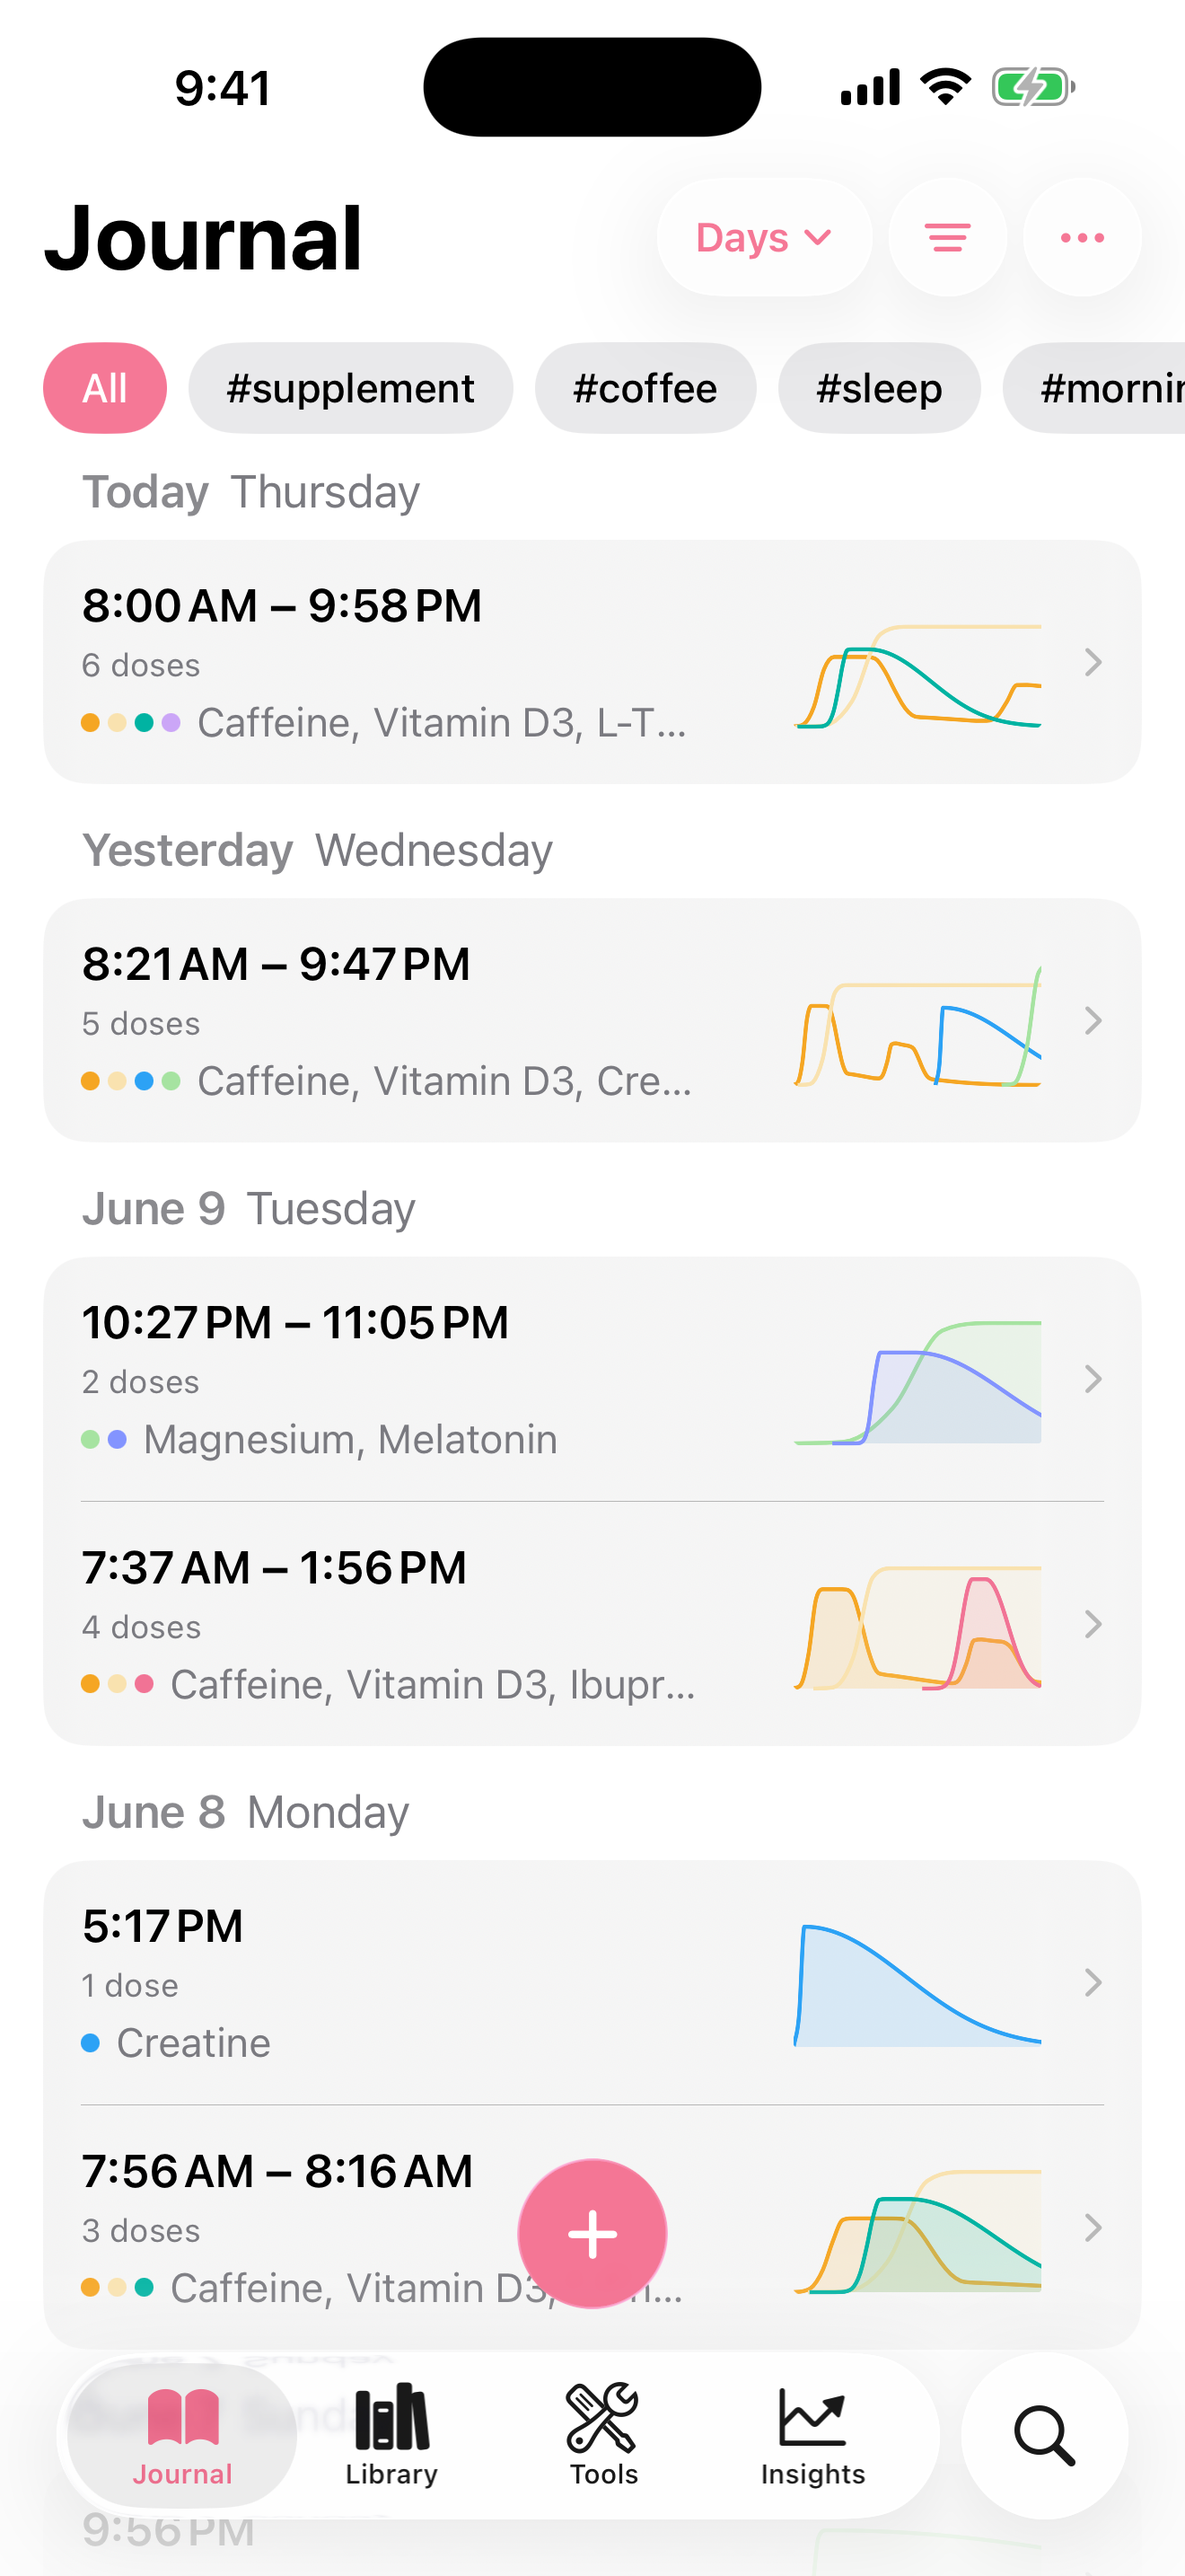
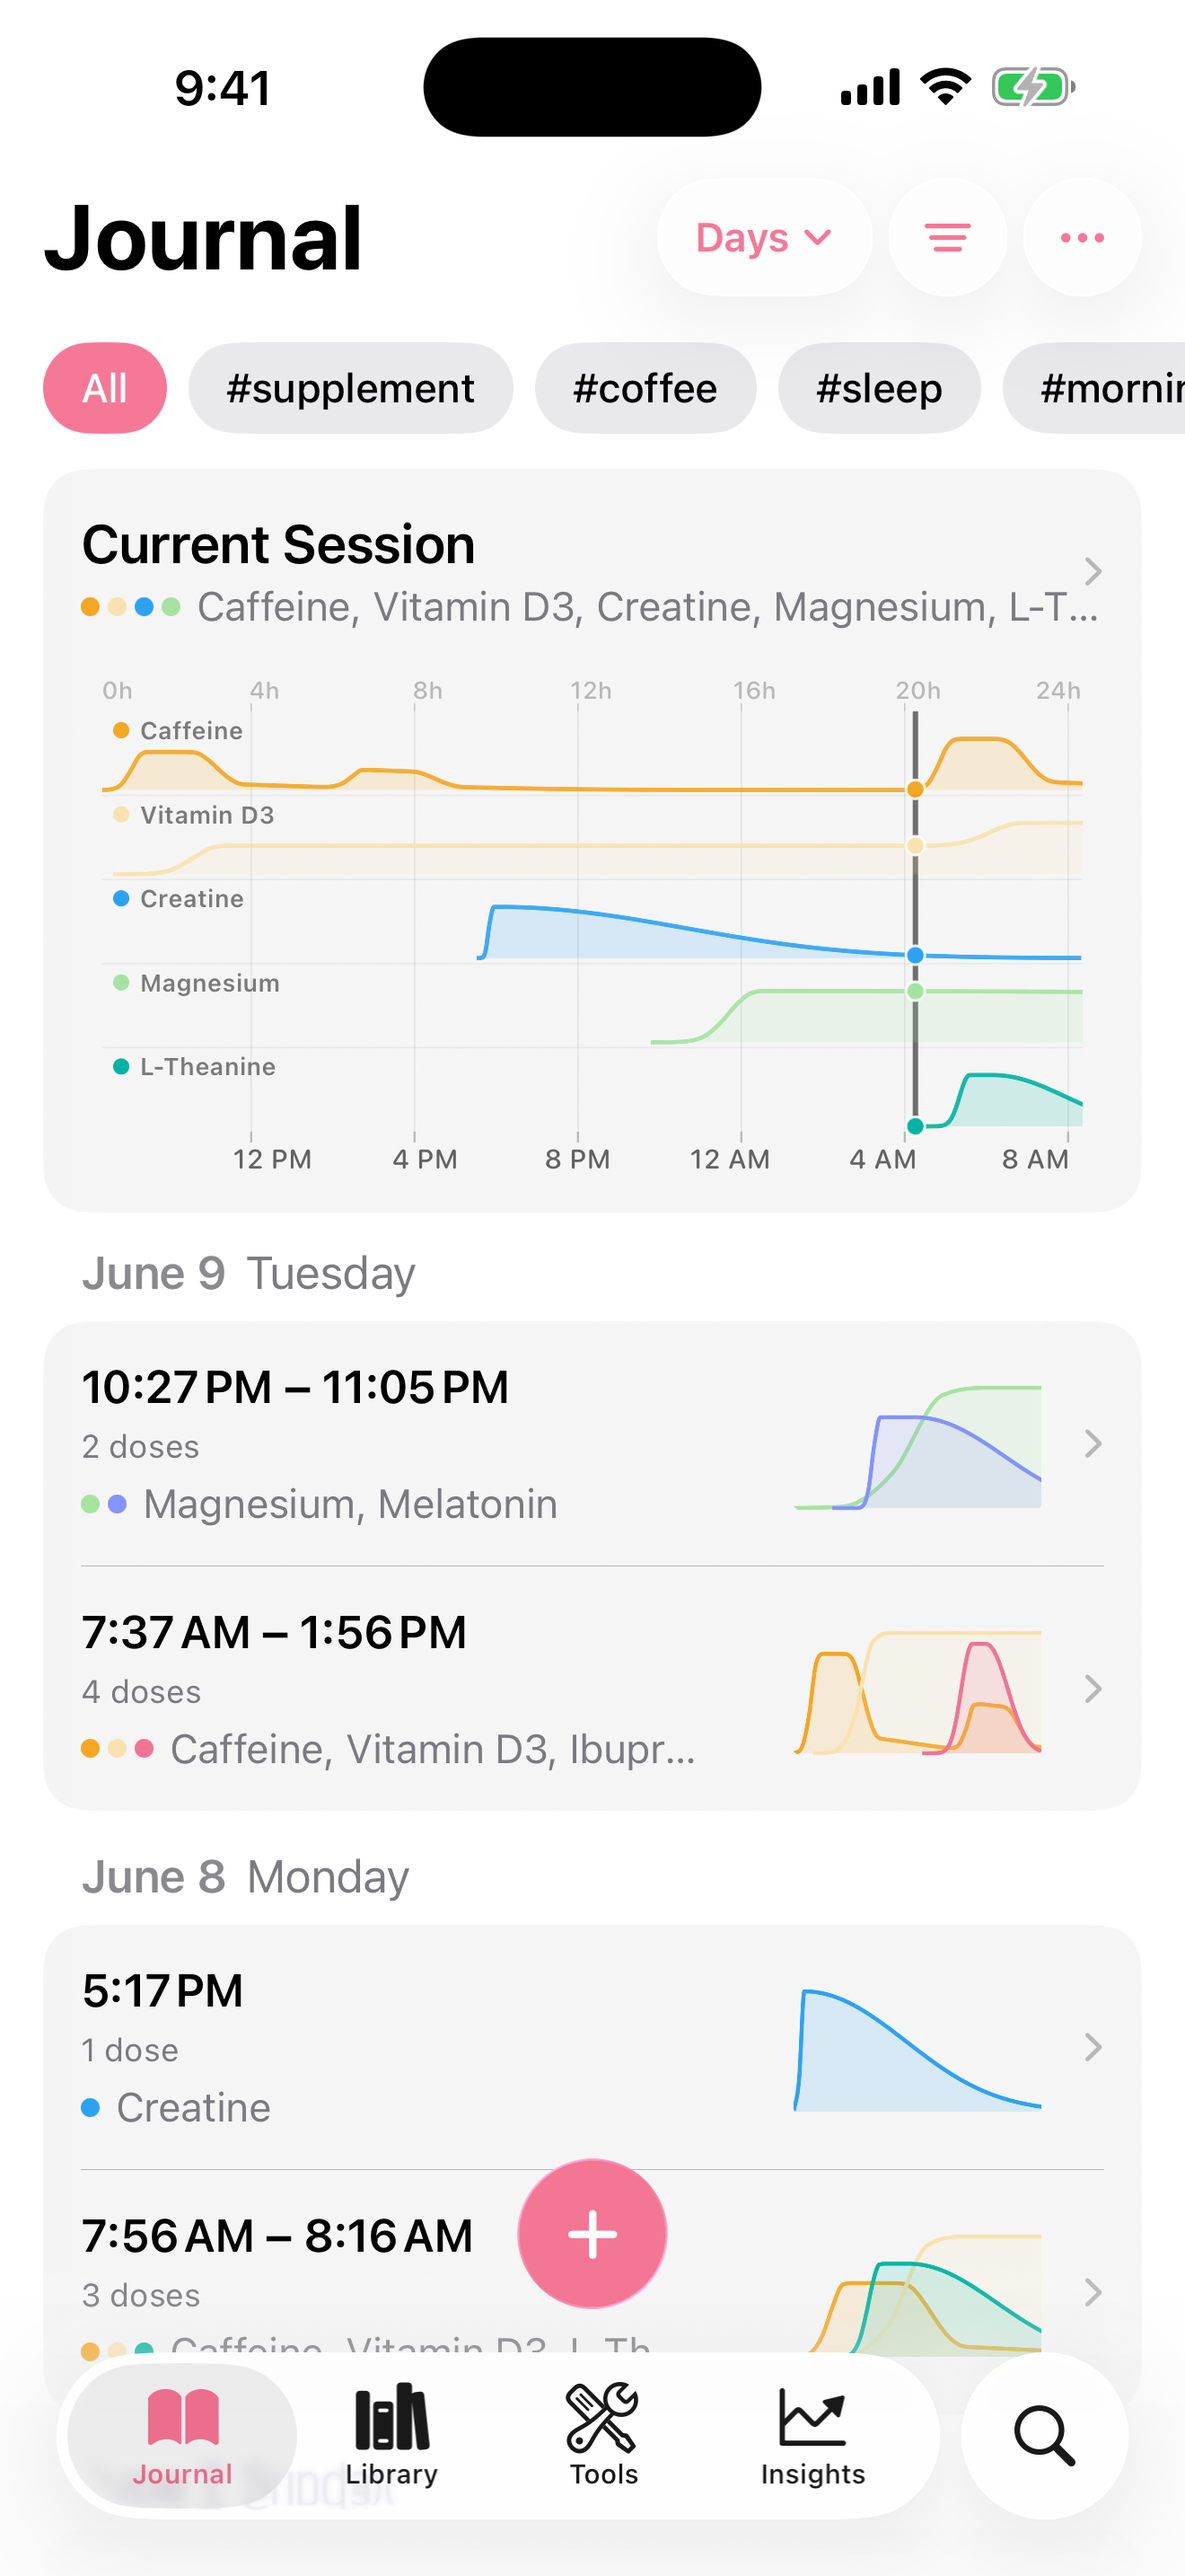
docs(readme): journal screenshot showing the Current Session hero card
Clamp the seeded live-session doses to the current session day so the
hero card recovers regardless of when seeding happens relative to the
day-boundary hour.

diff --git a/Piru/Utilities/DemoData.swift b/Piru/Utilities/DemoData.swift
@@ -248,31 +248,41 @@ import SwiftData
             // ── Today: a session that's active right now ────────
             // Anchored to the seeding moment (not clock hours) so the Journal's
             // "Current Session" hero card shows whenever screenshots are taken.
+            // Session recovery only fetches the current session day, so clamp
+            // each timestamp to just after the day cutoff — otherwise seeding
+            // shortly after the cutoff (e.g. 04:15 with a 04:00 boundary)
+            // back-dates the doses into yesterday and no session recovers.
 
             let now = Date()
+            let sessionDayStart = cal.sessionDayStart(for: now)
+            func recent(_ hoursAgo: Double, slot: Double) -> Date {
+                let ideal = now.addingTimeInterval(-hoursAgo * 3_600)
+                let floor = sessionDayStart.addingTimeInterval((5 + slot * 4) * 60)
+                return max(ideal, floor)
+            }
             entries.append(DoseEntry(
                 substance: "Caffeine",
                 amount: 110, unit: "mg", route: .oral,
-                timestamp: now.addingTimeInterval(-2.1 * 3_600),
+                timestamp: recent(2.1, slot: 0),
                 notes: "Flat white",
                 tags: ["coffee", "morning"],
             ))
             entries.append(DoseEntry(
                 substance: "L-Theanine",
                 amount: 200, unit: "mg", route: .oral,
-                timestamp: now.addingTimeInterval(-2.0 * 3_600),
+                timestamp: recent(2.0, slot: 1),
                 tags: ["coffee", "supplement"],
             ))
             entries.append(DoseEntry(
                 substance: "Vitamin D3",
                 amount: 4_000, unit: "IU", route: .oral,
-                timestamp: now.addingTimeInterval(-1.9 * 3_600),
+                timestamp: recent(1.9, slot: 2),
                 tags: ["supplement"],
             ))
             entries.append(DoseEntry(
                 substance: "Caffeine",
                 amount: 60, unit: "mg", route: .oral,
-                timestamp: now.addingTimeInterval(-0.4 * 3_600),
+                timestamp: recent(0.4, slot: 3),
                 notes: "Top-up",
                 tags: ["coffee"],
             ))
